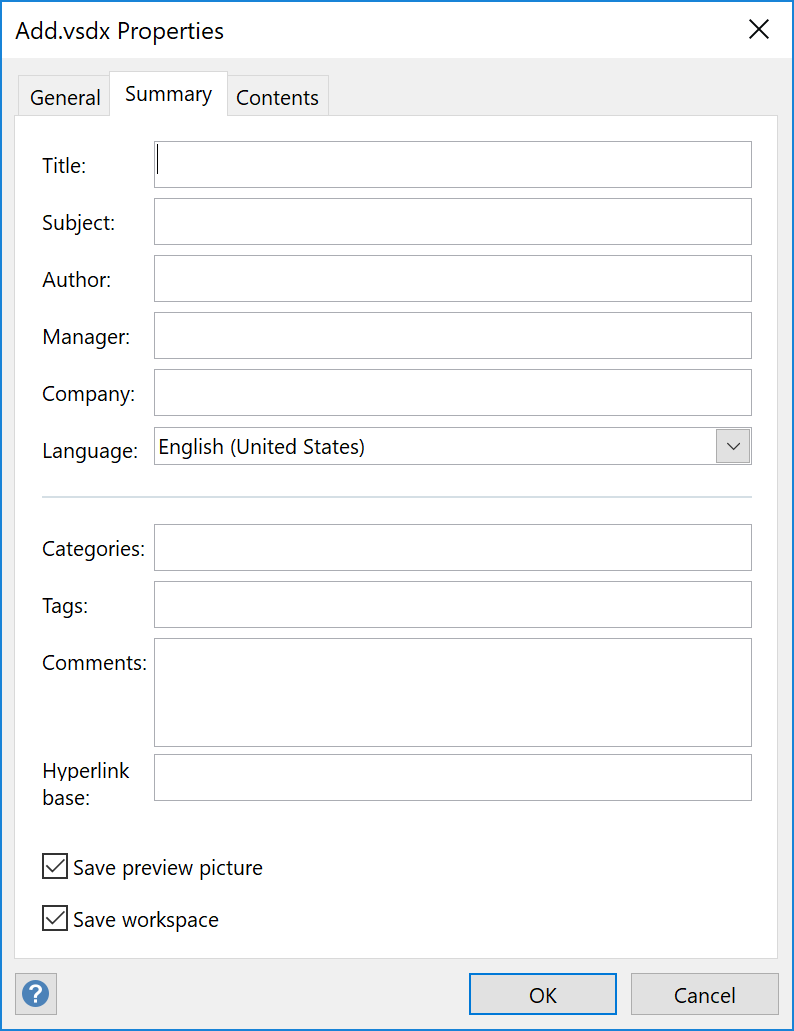
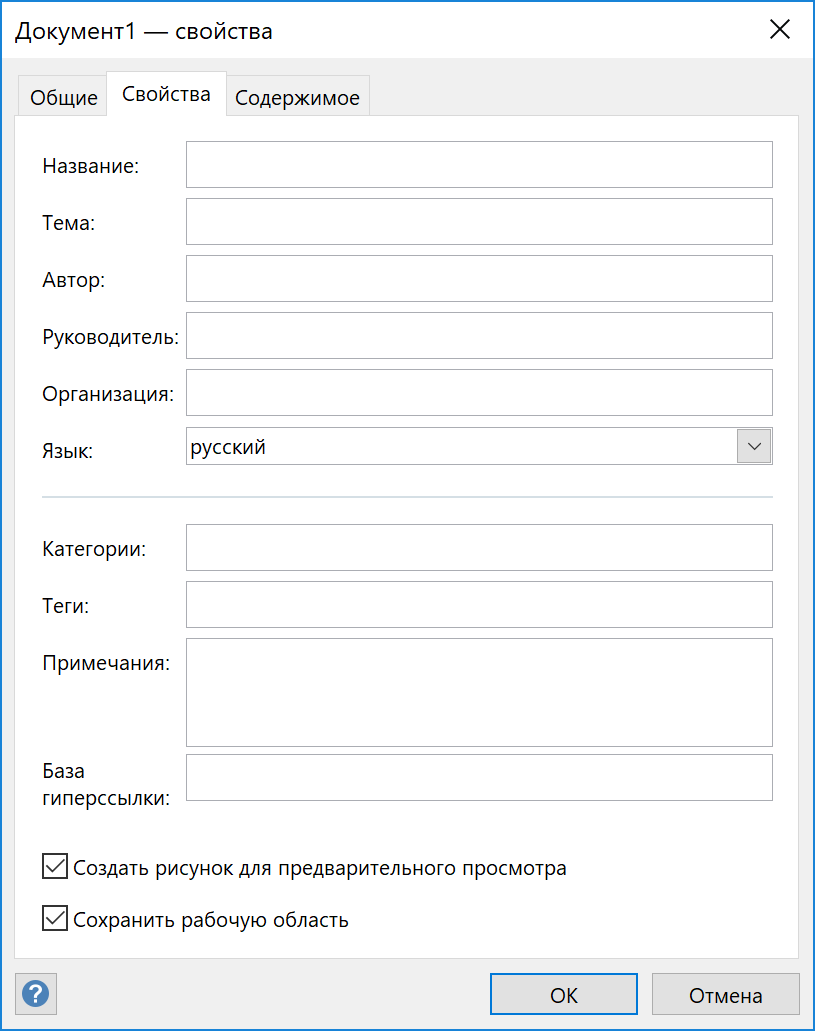
Changes 28032018
Add/replace pictures for functions: Category, Company, Creator, Data1, Data2, Data3, Description, Hyperlinkbase, ID, Keywords, Managers, Mastername, Subject, Title

diff --git a/ru/pages/functions/Функция COMPANY.htm b/ru/pages/functions/Функция COMPANY.htm
@@ -45,7 +45,7 @@ margin-left:0cm;background:white'><b><span style='font-size:10.0pt;font-family:
 <p class=MsoNormal style='margin-top:7.2pt;margin-right:0cm;margin-bottom:7.2pt;
 margin-left:0cm;line-height:9.75pt;background:white'><b><span style='font-size:
 8.5pt;font-family:"Tahoma","sans-serif"'>COMPANY ()</span></b></p>
-
+<img width=500 height=650 src="../../images/Document_properties.png" alt="Document Properties Window">
 </div>
 
 <p class=MsoNormal style='margin-top:7.2pt;margin-right:0cm;margin-bottom:7.2pt;margin-left:0cm;line-eight:9.75pt;background:white'><span style='font-size:8.5pt;font-family:"Tahoma","sans-serif"'><br><a>© Корпорация Майкрософт (Microsoft Corporation). Все права защищены.</a></span></p></body>

diff --git a/ru/pages/functions/Функция CREATOR.htm b/ru/pages/functions/Функция CREATOR.htm
@@ -44,7 +44,7 @@ margin-left:0cm;background:white'><b><span style='font-size:10.0pt;font-family:
 <p class=MsoNormal style='margin-top:7.2pt;margin-right:0cm;margin-bottom:7.2pt;
 margin-left:0cm;line-height:9.75pt;background:white'><b><span style='font-size:
 8.5pt;font-family:"Tahoma","sans-serif"'>CREATOR ()</span></b></p>
-
+<img width=500 height=650 src="../../images/Document_properties.png" alt="Document Properties Window">
 </div>
 
 <p class=MsoNormal style='margin-top:7.2pt;margin-right:0cm;margin-bottom:7.2pt;margin-left:0cm;line-eight:9.75pt;background:white'><span style='font-size:8.5pt;font-family:"Tahoma","sans-serif"'><br><a>© Корпорация Майкрософт (Microsoft Corporation). Все права защищены.</a></span></p></body>

diff --git a/ru/pages/functions/Функция HYPERLINKBASE.htm b/ru/pages/functions/Функция HYPERLINKBASE.htm
@@ -50,7 +50,7 @@ margin-left:0cm;background:white'><b><span style='font-size:10.0pt;font-family:
 "Tahoma","sans-serif";color:#003399'>Возвращаемое значение</span></b><span
 style='font-size:8.5pt;font-family:"Tahoma","sans-serif"'><br>
 Строка</span></p>
-
+<img width=500 height=650 src="../../images/Document_properties.png" alt="Document Properties Window">
 </div>
 
 <p class=MsoNormal style='margin-top:7.2pt;margin-right:0cm;margin-bottom:7.2pt;margin-left:0cm;line-eight:9.75pt;background:white'><span style='font-size:8.5pt;font-family:"Tahoma","sans-serif"'><br><a>© Корпорация Майкрософт (Microsoft Corporation). Все права защищены.</a></span></p></body>

diff --git a/ru/pages/functions/Функция MANAGER.htm b/ru/pages/functions/Функция MANAGER.htm
@@ -50,7 +50,7 @@ margin-left:0cm;background:white'><b><span style='font-size:10.0pt;font-family:
 "Tahoma","sans-serif";color:#003399'>Возвращаемое значение</span></b><span
 style='font-size:8.5pt;font-family:"Tahoma","sans-serif"'><br>
 Строка</span></p>
-
+<img width=500 height=650 src="../../images/Document_properties.png" alt="Document Properties Window">
 </div>
 
 <p class=MsoNormal style='margin-top:7.2pt;margin-right:0cm;margin-bottom:7.2pt;margin-left:0cm;line-eight:9.75pt;background:white'><span style='font-size:8.5pt;font-family:"Tahoma","sans-serif"'><br><a>© Корпорация Майкрософт (Microsoft Corporation). Все права защищены.</a></span></p></body>
